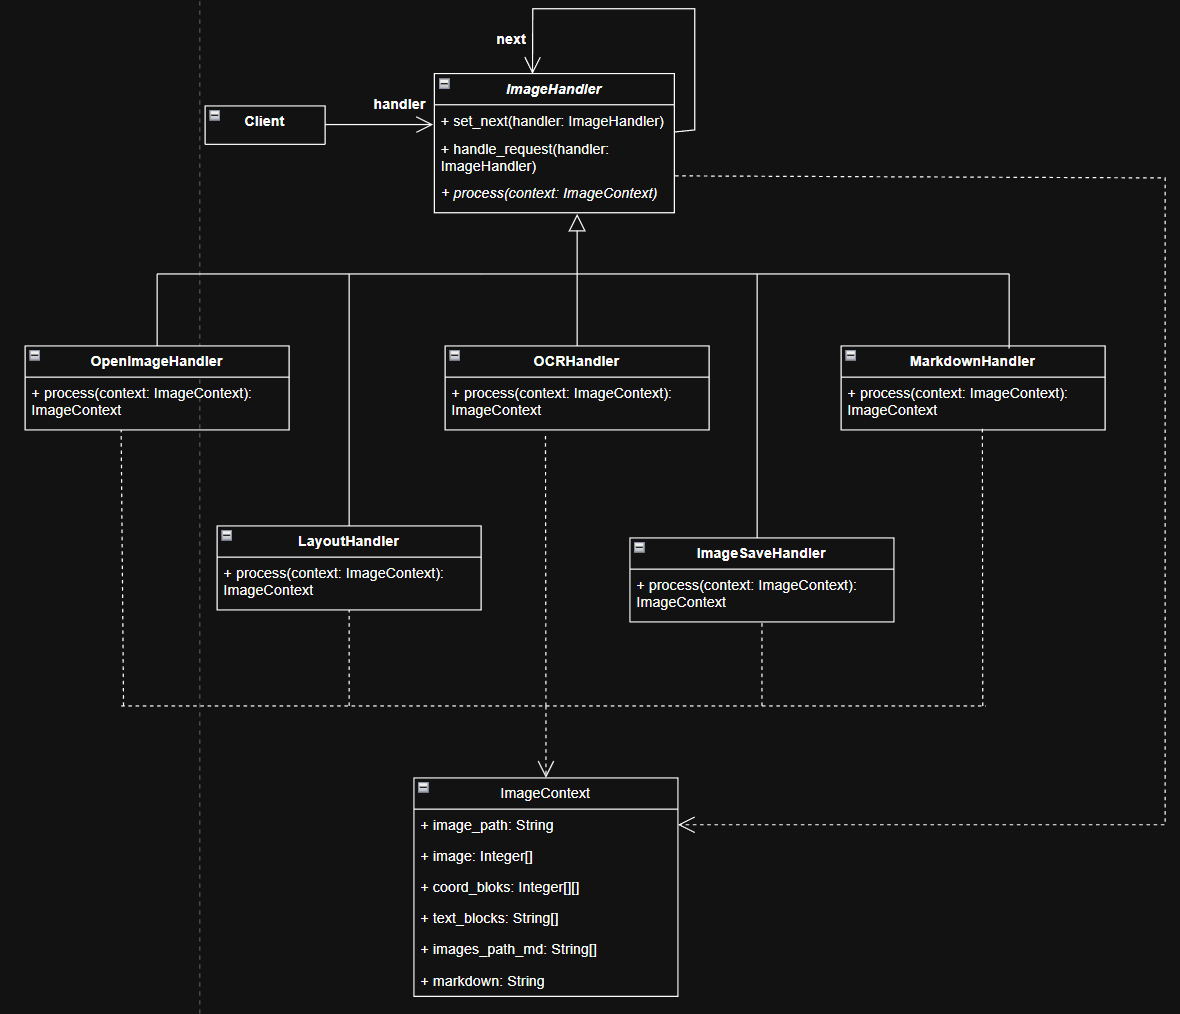
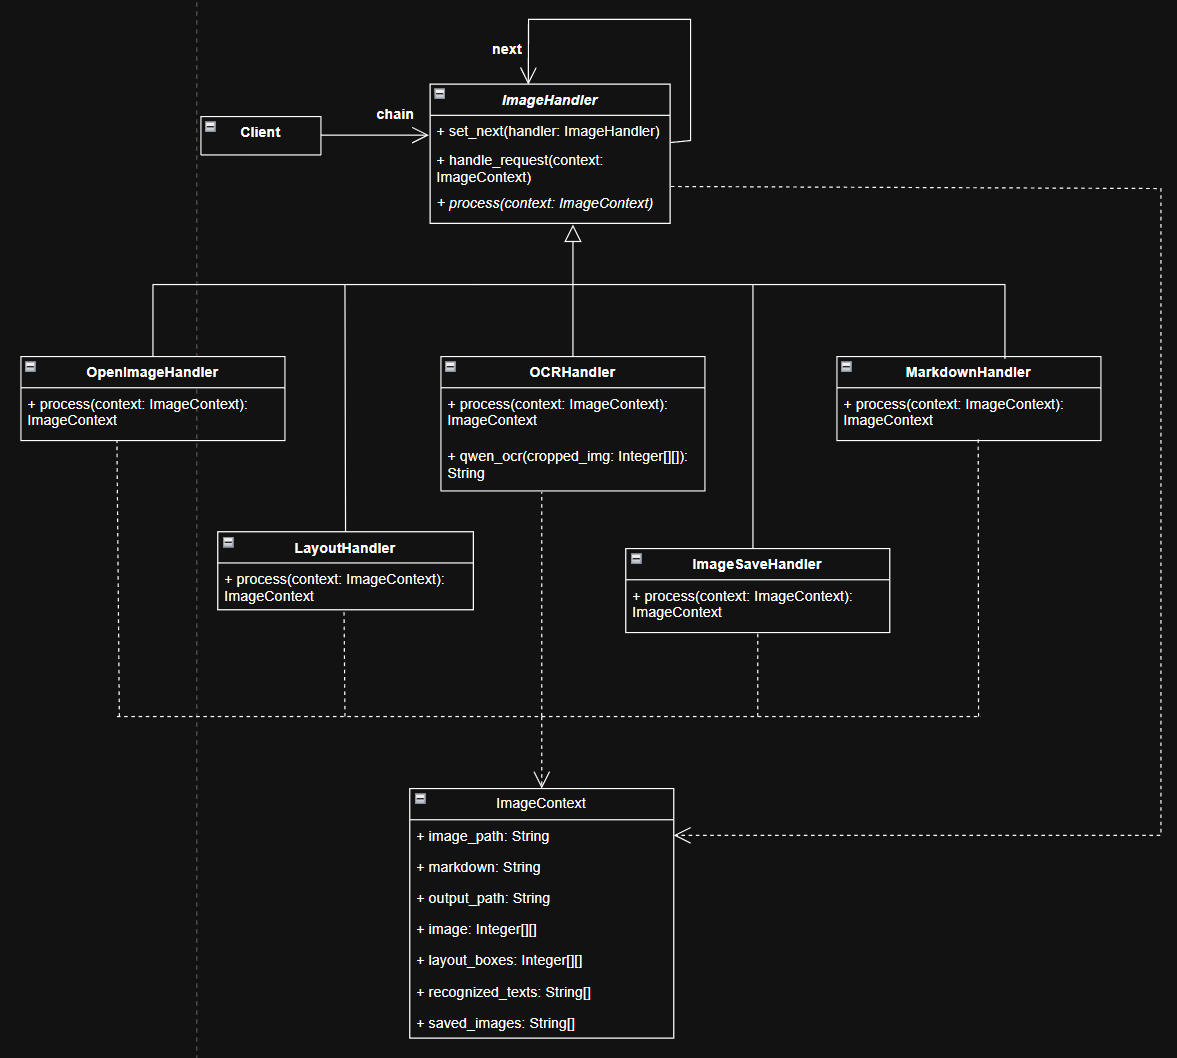
lb3 readme

diff --git a/lab03/README.md b/lab03/README.md
@@ -1,2 +1,32 @@
+### Отчет
+
+**Описание проблемы**
+
+В процессе интеллектуальной обработки документов требуется последовательное выполнение разнородных и ресурсоемких операций: открытие файла, анализ макета (Layout), распознавание текста (OCR), формирование разметки и сохранение результата. Основная трудность заключается в жесткой связанности этих этапов. Если реализовывать логику в одном контроллере, код становится громоздким и трудноизменяемым. Кроме того, при обработке разных типов изображений может потребоваться пропуск определенных этапов или изменение их порядка, что при монолитной архитектуре ведет к созданию сложных вложенных условий if-else и затрудняет масштабирование системы (например, при добавлении этапа фильтрации шумов).
+
+**Решение и использование паттерна** 
+
+Для организации гибкого конвейера обработки внедрен поведенческий паттерн «Цепочка обязанностей». Центральным элементом выступает абстрактный класс ImageHandler, который определяет метод process и хранит ссылку на следующего обработчика (next).
+
+Конкретные звенья цепочки — OpenImageHandler, LayoutHandler, OCRHandler, MarkdownHandler и ImageSaveHandler — реализуют строго определенную часть логики:
+
+- OpenImageHandler проверяет пути и типы файлов, открывая изображение;
+
+- LayoutHandler формирует шаблон документа;
+
+- OCRHandler распознает текст;
+
+- ImageSaveHandler создает целевую директорию и сохраняет в нее изображения;
+
+- MarkdownHandler генерирует финальный Markdown-файл.
+
+Все данные передаются через объект ImageContext, выступающий общим состоянием (хранит пути, матрицы пикселей, координаты блоков и итоговый текст). Клиент инициирует выполнение, передавая контекст первому звену. Каждый обработчик модифицирует ImageContext и передает управление дальше по цепи. Это позволяет динамически настраивать процесс, добавляя или удаляя этапы без изменения существующего кода.
+
+
+**Диаграмма классов для архитектуры приложения с применением паттерна.**
 ![image](images/img1.png)
 Рисунок 1 - Диаграмма классов для приложения по интеллектуальной OCR обработке изображений
+
+**Вывод**
+
+Внедрение паттерна «Цепочка обязанностей» позволило декомпозировать сложный процесс обработки изображений на независимые, легко тестируемые модули. Это значительно повысило чистоту кода, так как каждый класс теперь следует принципу единственной ответственности. Система стала адаптивной: мы можем легко менять последовательность обработки или добавлять новые специализированные модули (например, для распознавания таблиц), не затрагивая логику других компонентов. Использование общего объекта ImageContext обеспечило эффективную передачу промежуточных данных между этапами, исключив избыточное копирование информации и упростив отладку конвейера.
